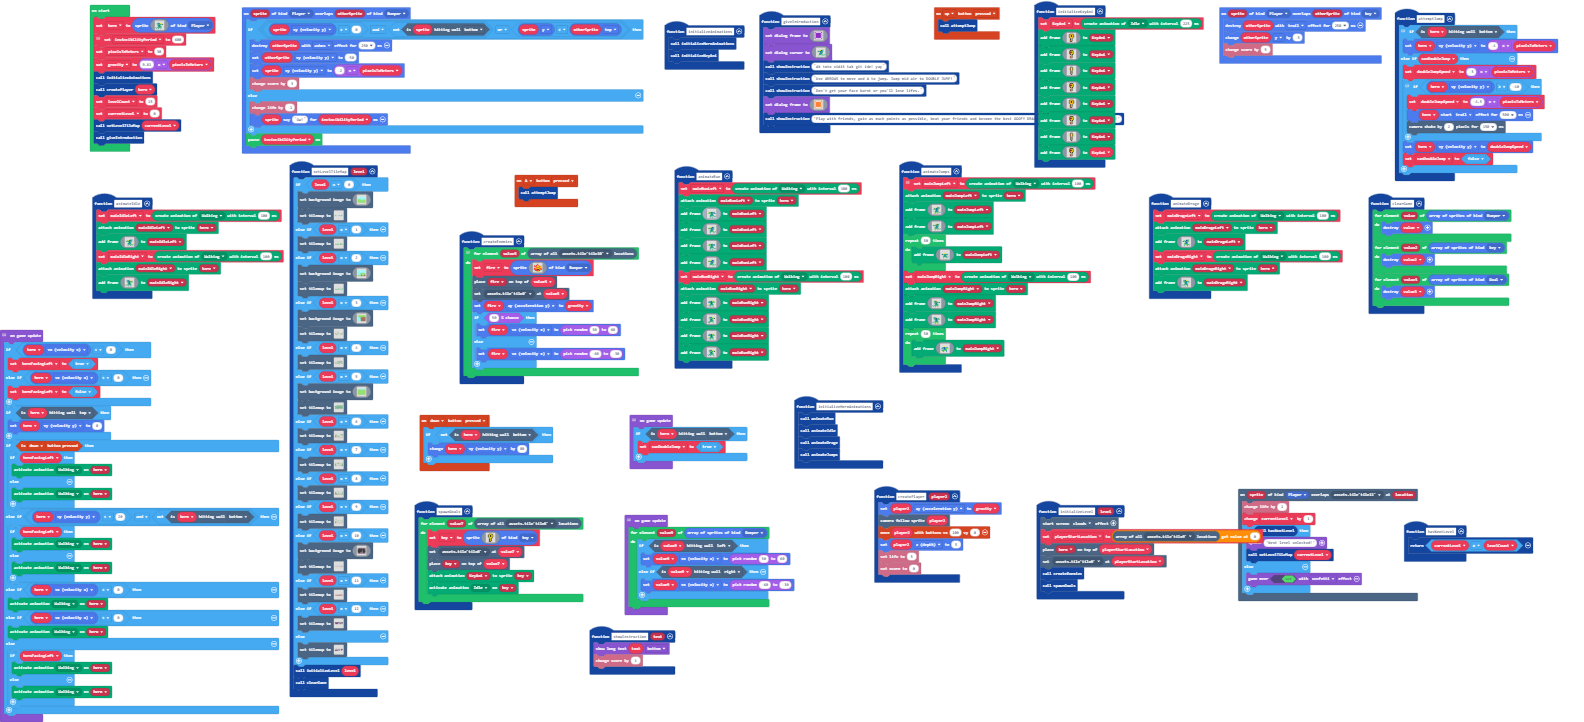
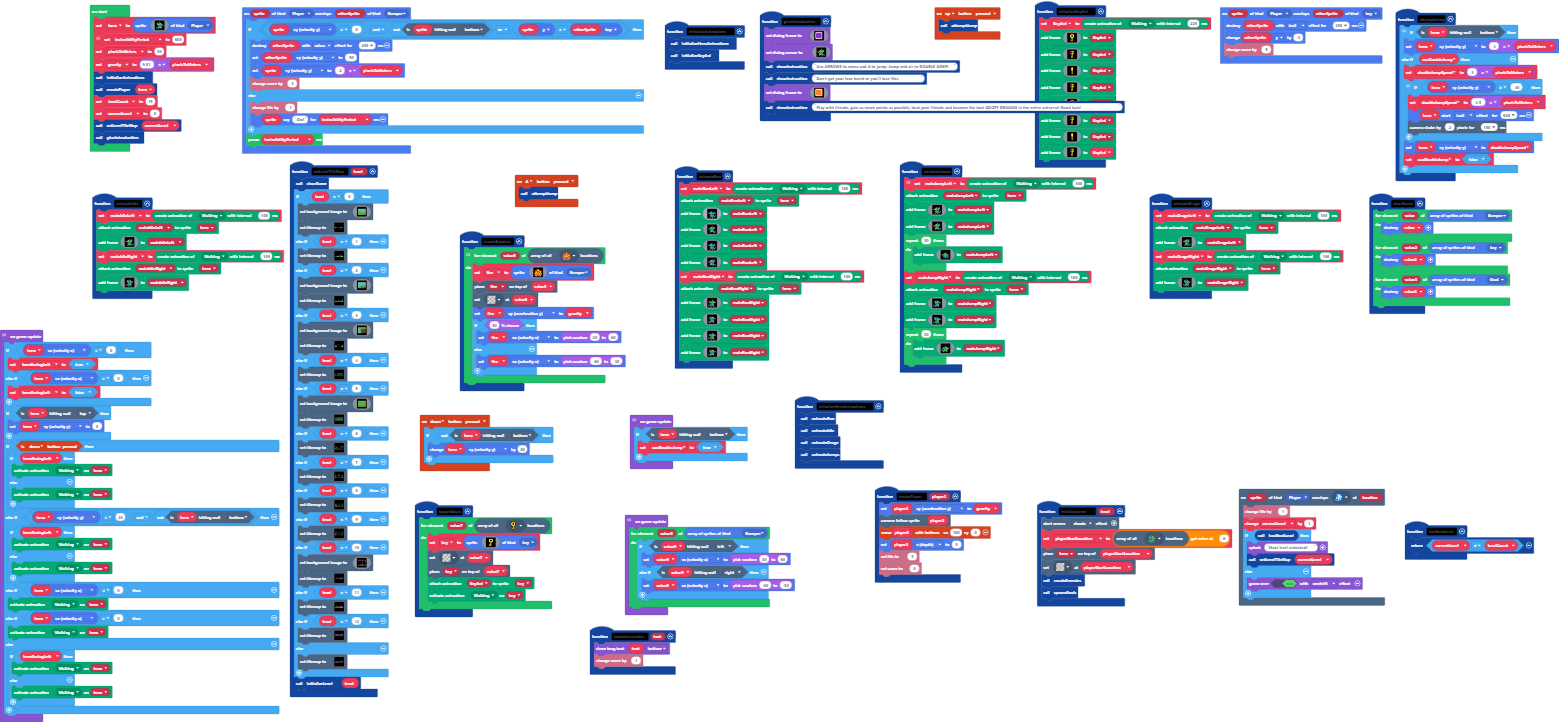
Update pxt.json, main.blocks, main.ts

Changed region(s): [[0.0, 0.0, 1.0, 0.9751], [0.5542, 0.6399, 0.9852, 0.8532], [0.4003, 0.1219, 0.431, 0.1524]]

diff --git a/main.ts b/main.ts
@@ -219,7 +219,6 @@ function giveIntroduction () {
         . . . . 6 . . . . . 6 . . 7 6 . 
         . 5 6 6 . . . . 5 6 6 . . . . . 
         `)
-    showInstruction("Ak toto vidíš tak git ide! yay")
     showInstruction("Use ARROWS to move and A to jump. Jump mid air to DOUBLE JUMP!")
     showInstruction("Don't get your face burnt or you'll lose lifes.")
     game.setDialogFrame(img`
@@ -346,6 +345,7 @@ function animateIdle () {
         `)
 }
 function setLevelTileMap (level: number) {
+    clearGame()
     if (level == 0) {
         scene.setBackgroundImage(img`
             9999999999999999999999999999999999999999999999999999999999999999999999999999999999999999999999999999999999999999999999999999999999999999999999999999999999999999
@@ -986,7 +986,6 @@ function setLevelTileMap (level: number) {
         tiles.setTilemap(tilemap`level5`)
     }
     initializeLevel(level)
-    clearGame()
 }
 controller.A.onEvent(ControllerButtonEvent.Pressed, function () {
     attemptJump()
@@ -1373,7 +1372,7 @@ function spawnGoals () {
             . . . . f 5 5 4 5 f . . . . . . 
             . . . . . f f f f . . . . . . . 
             `, SpriteKind.key)
-        tiles.setTileAt(value7, assets.tile`tile0`)
+        tiles.setTileAt(value7, assets.tile`transparency16`)
         tiles.placeOnTile(key, value7)
         animation.attachAnimation(key, KeyAni)
         animation.setAction(key, ActionKind.Idle)
